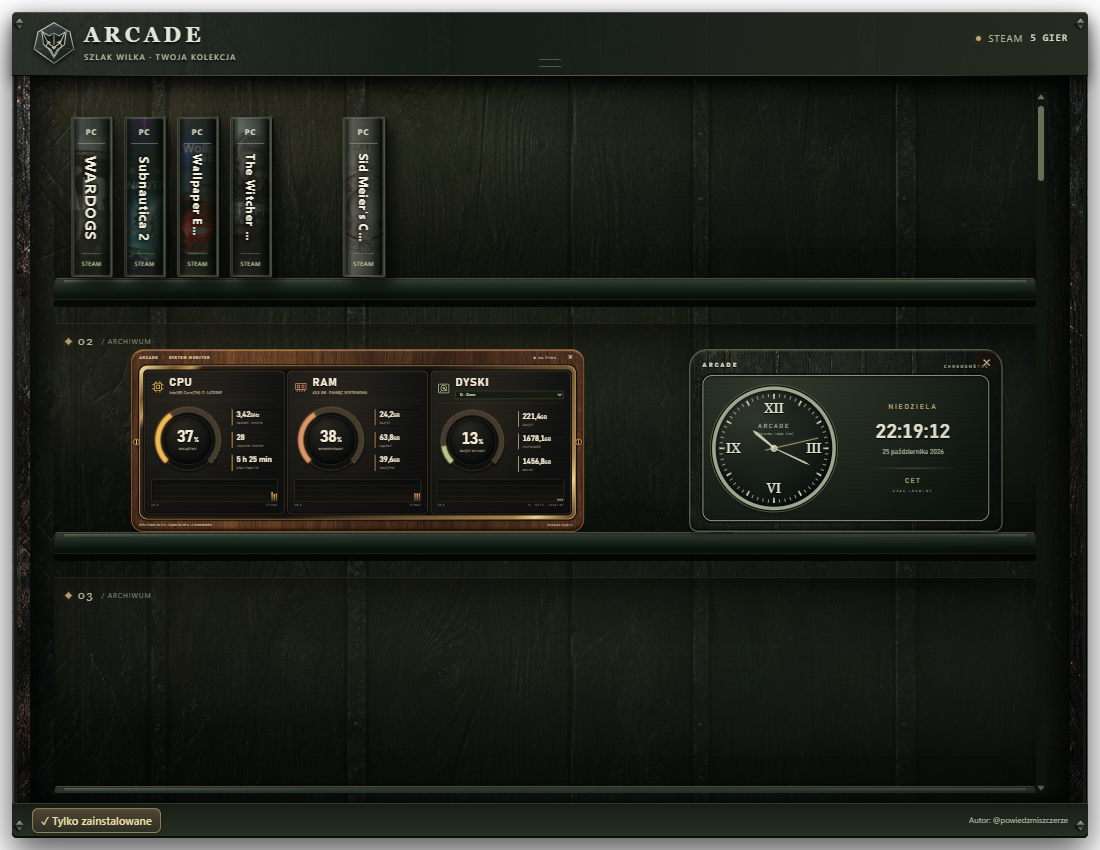
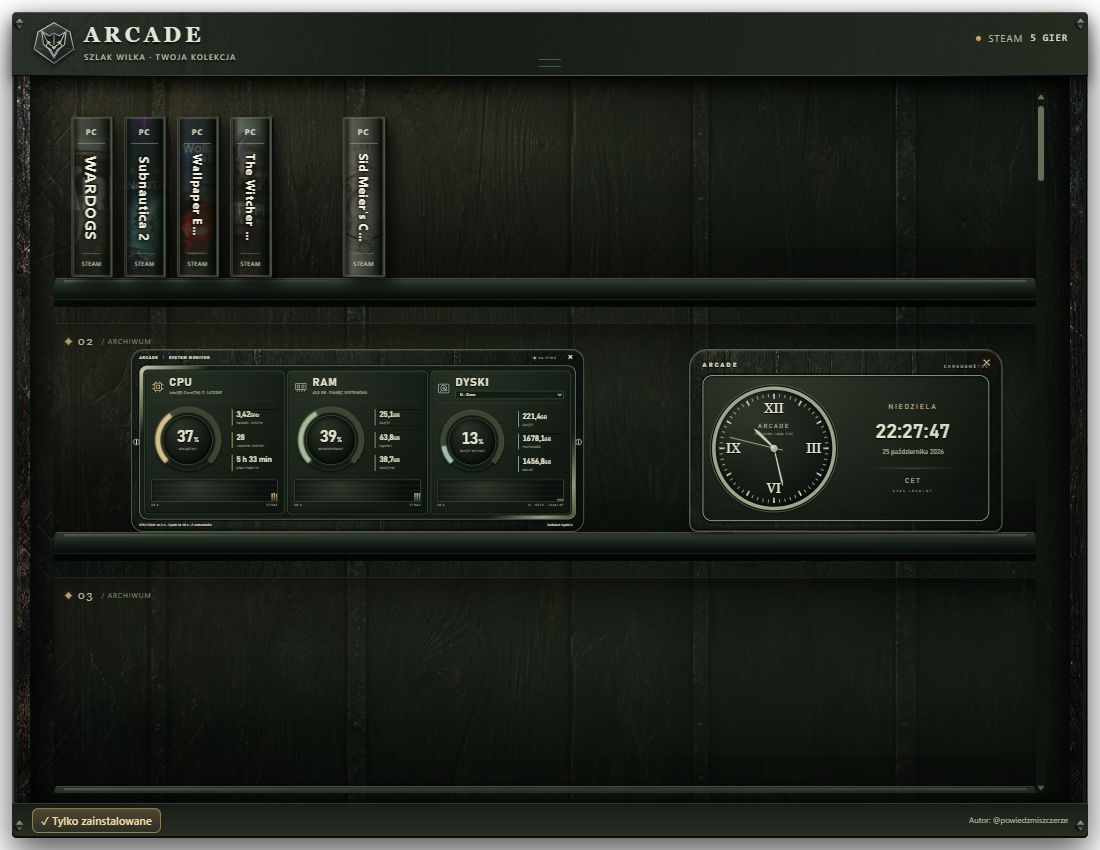
Release 0.18.1 themed system monitor

diff --git a/CHANGELOG.md b/CHANGELOG.md
@@ -1,5 +1,11 @@
 # Historia zmian
 
+## 0.18.1 — Monitor dopasowany do motywu półki
+
+- Monitor automatycznie przejmuje styl aktywnej półki: Klasyczny, Orzech i mosiądz, Night Shift, Aurora Circuit i Szlak Wilka.
+- Dopasowane obudowa, metal, tarcze, napisy, wybór dysku i kolory wykresów.
+- Wygląd zmienia się natychmiast, bez zmiany odczytów, wybranego dysku i położeń widgetów.
+
 ## 0.18.0 — Dyski zamiast temperatur
 
 - Panel DYSKI wykrywa dostępne lokalne woluminy i nośniki USB bez zewnętrznych programów.
@@ -327,6 +333,7 @@ Testy: import wielostronicowy, ukryte gry, zmiana konta, tryb offline, sprawdzen
 - Animacja pudełka, płyty i napędu PC z lat 90.
 - Kot i szczur, dodatkowe pozy, spacer i strącanie pudełka łapką.
 - Autostart, zapis układu, menu w zasobniku i podpis autora.
+
 
 
 
